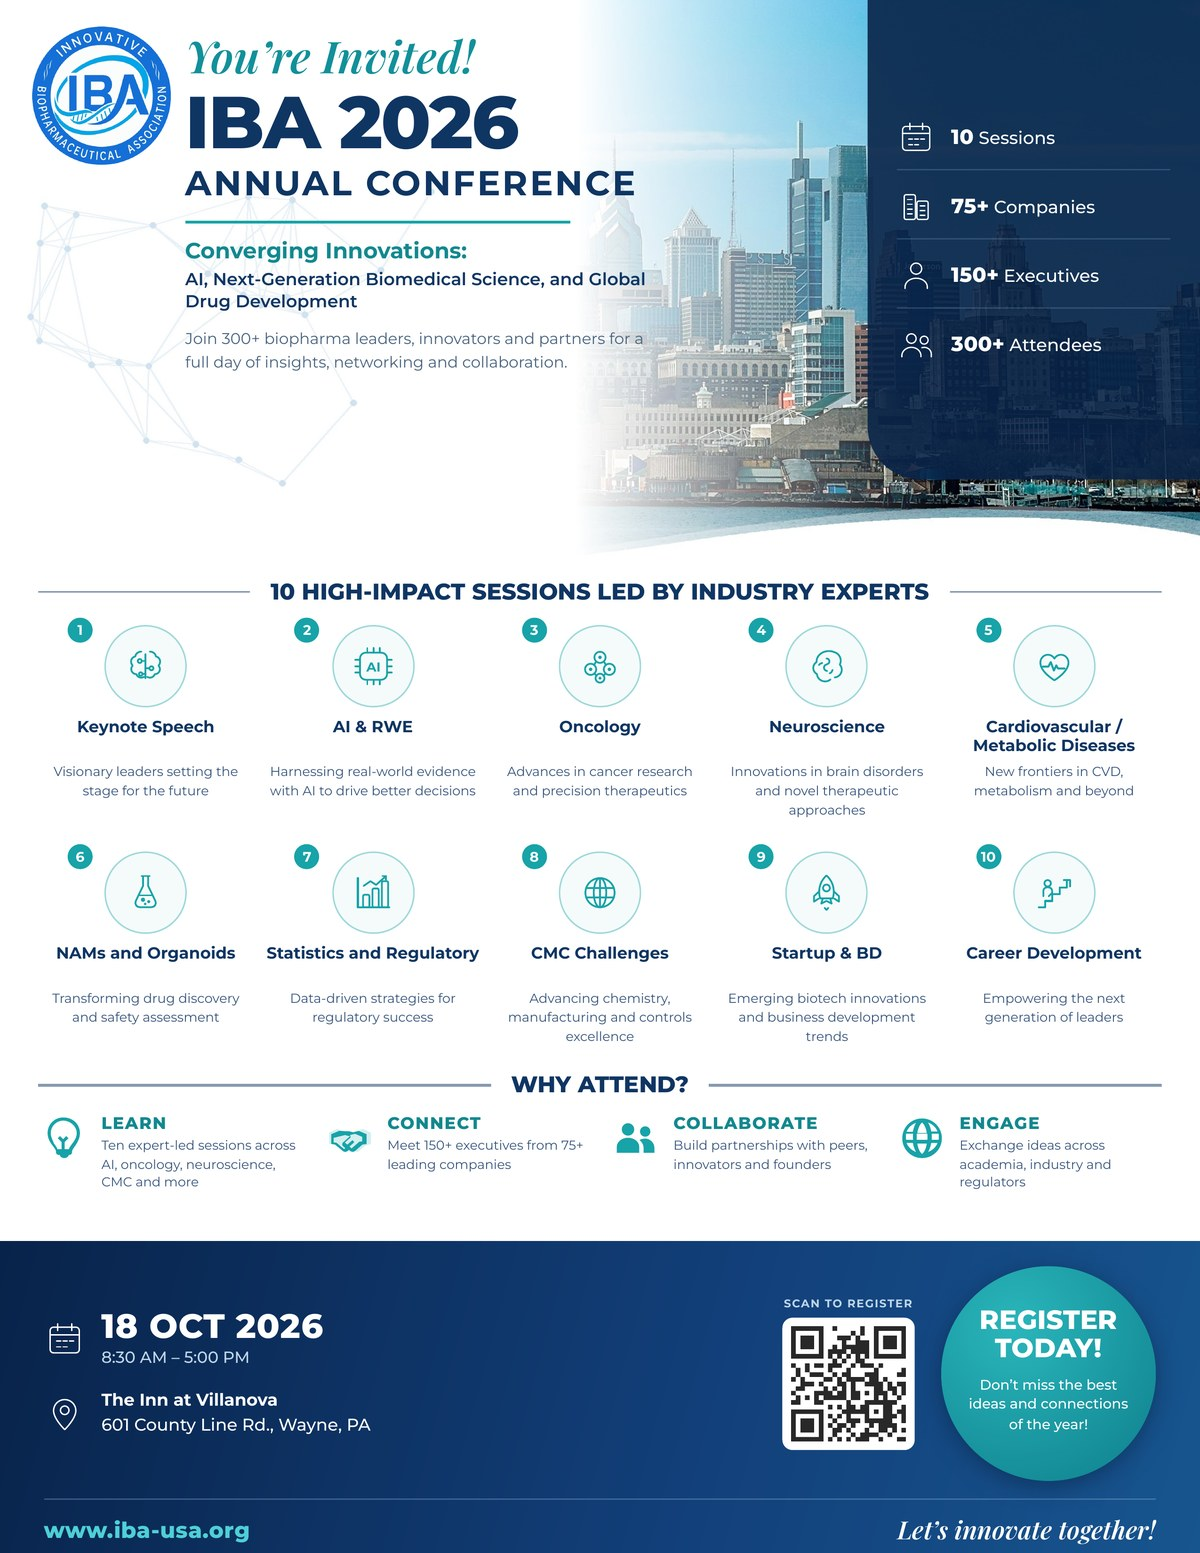
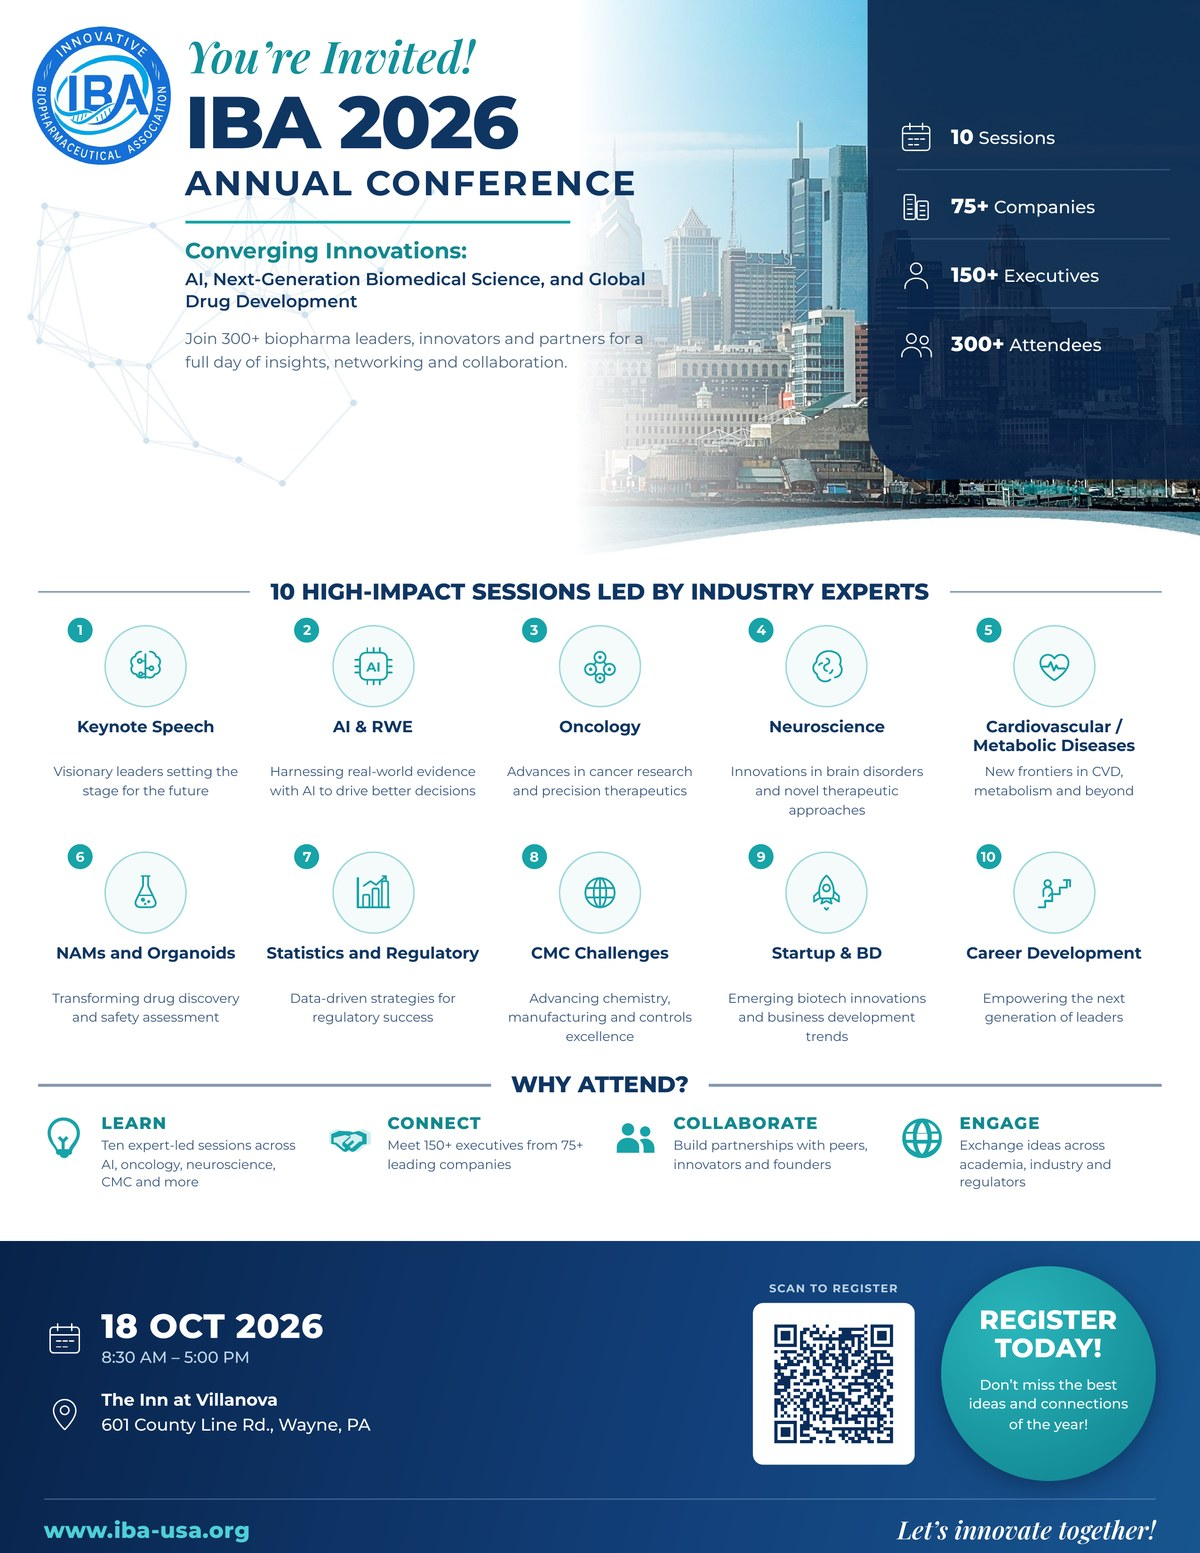
Opened registration for 2026 annual conference

Changed region(s): [[0.6167, 0.8036, 0.7708, 0.9581]]

diff --git a/event-conference-2026.html b/event-conference-2026.html
@@ -69,7 +69,7 @@
       </div>
       <div class="fact">
         <dt><span data-lang="en">Registration</span><span data-lang="zh">报名</span></dt>
-        <dd><span data-lang="en">Opening soon</span><span data-lang="zh">即将开放</span><small><span data-lang="en">Details to be announced</span><span data-lang="zh">具体方式待公布</span></small></dd>
+        <dd><span data-lang="en">Open now</span><span data-lang="zh">现已开放</span><small><a href="https://www.zeffy.com/en-US/ticketing/2026-iba-annual-conference" target="_blank" rel="noopener"><span data-lang="en">Register online</span><span data-lang="zh">在线报名</span></a></small></dd>
       </div>
     </dl>
 
@@ -83,8 +83,18 @@
         <p data-lang="zh">本届年会的主题为&ldquo;创新汇聚：人工智能、新一代生物医学科学与全球药物研发&rdquo;。全天共设十个专题环节，内容涵盖人工智能与真实世界证据、肿瘤、神经科学、心血管与代谢疾病、新方法学与类器官、统计与法规、CMC、商务拓展以及职业发展。完整安排详见宣传页。</p>
         <p data-lang="en">We expect more than 300 people to attend, including over 150 executives from more than 75 companies, together with 17 sponsoring organizations. For many of our members this is the one day in the year when they can meet counterparts from other companies, catch up on the science, and find partners for their own work.</p>
         <p data-lang="zh">我们预计将有 300 余人出席，其中包括来自 75 家以上企业的 150 余位高管，以及 17 家赞助机构。对许多会员而言，这是一年中难得的机会，可以结识其他公司的同行、了解科学的最新进展，并为自己的工作寻找合作伙伴。</p>
-        <p data-lang="en">Seats are limited. Registration will open soon, and details will be posted on this page.</p>
-        <p data-lang="zh">名额有限。报名通道即将开放，具体方式将在本页公布。</p>
+        <p data-lang="en">Registration is open. Seats are limited, so please register early.</p>
+        <p data-lang="zh">报名现已开放。名额有限，敬请及早报名。</p>
+
+        <div class="register">
+          <img class="register__qr" src="assets/img/register-qr.png" width="150" height="150"
+               alt="QR code linking to the IBA 2026 Annual Conference registration page" loading="lazy">
+          <div class="register__body">
+            <a class="btn btn--primary" href="https://www.zeffy.com/en-US/ticketing/2026-iba-annual-conference" target="_blank" rel="noopener"><span data-lang="en">Register for the conference</span><span data-lang="zh">立即报名参加年会</span></a>
+            <p class="register__note" data-lang="en">Or scan the code with your phone camera.</p>
+            <p class="register__note" data-lang="zh">也可使用手机相机扫描二维码。</p>
+          </div>
+        </div>
       </div>
 
       <figure class="split__media event-flyer" data-optional-media>

diff --git a/assets/css/styles.css b/assets/css/styles.css
@@ -610,3 +610,16 @@ a.logo-card:hover .logo-card__name { color: var(--teal-600); }
   margin-top: .8rem; font-size: .84rem; color: var(--muted); text-align: center;
 }
 .split--single { grid-template-columns: 1fr; }
+
+/* ---------- Registration card ---------- */
+.register {
+  display: flex; flex-wrap: wrap; align-items: center; gap: 1.4rem;
+  margin: 1.8rem 0 0; padding: 1.3rem 1.5rem;
+  background: var(--canvas); border: 1px solid var(--line); border-radius: var(--radius);
+}
+.register__qr {
+  width: 150px; height: 150px; flex: none;
+  border: 1px solid var(--line); border-radius: var(--radius-s); background: #fff;
+}
+.register__body { display: flex; flex-direction: column; align-items: flex-start; gap: .7rem; }
+.register__note { margin: 0; font-size: .9rem; color: var(--muted); }

diff --git a/README.md b/README.md
@@ -26,7 +26,7 @@ Ctrl+F5 on Windows) before assuming the upload failed.
 | `event-bbq-2026.html` | Detail page: 2026 BBQ & Music Festival |
 | `assets/css/styles.css` | All styling. Design tokens are at the top |
 | `assets/js/main.js` | Navigation, language toggle, event sorting, image fallbacks, lightbox |
-| `assets/img/` | Conference flyer, and sponsor logos in `sponsors/` |
+| `assets/img/` | Conference flyer, registration QR, and sponsor logos in `sponsors/` |
 | `ASSETS.md` | Where every image comes from, and which ones are still hosted elsewhere |
 | `download-assets.sh` | One-off script to pull the remaining remote images into the repo |
 
@@ -139,11 +139,11 @@ Colours, spacing and shadows are CSS custom properties in `:root` at the top of
 
 ## Known gaps
 
-- **Conference registration is an email link.** The invitation and the flyer both
-  say to register at www.iba-usa.org, which is this site, so there is nothing to
-  point at yet. When a registration form or ticketing page exists, replace the
-  `mailto:` links on `event-conference-2026.html`. The flyer's QR code resolves to
-  the site's front page for the same reason.
+- **Conference registration** runs on Zeffy. Both the button and the QR code on
+  `event-conference-2026.html` point at
+  `https://www.zeffy.com/en-US/ticketing/2026-iba-annual-conference`. The QR image
+  (`assets/img/register-qr.png`) was cropped from the flyer, so if the flyer's code
+  ever changes, re-crop it rather than leaving the two out of step.
 - **One sponsor tile has no WeChat QR code.** If a clean copy is supplied, save it
   as `assets/img/sponsors/yingxin-xue-wechat.png` and the card will display it
   automatically at 96px. No code change is needed.

diff --git a/ASSETS.md b/ASSETS.md
@@ -8,6 +8,7 @@ Two kinds of image are used on this site, and they behave differently.
 |---|---|
 | `assets/img/iba-2026-conference-flyer.jpg` | Annual Conference page, beside the description |
 | `assets/img/iba-2026-conference-flyer.pdf` | Opens when the flyer image is clicked |
+| `assets/img/register-qr.png` | Registration QR on the Annual Conference page, cropped from the flyer |
 | `assets/img/sponsors/*.png` | Sponsorship page, one per organization |
 
 The sponsor logos are trimmed of their surrounding whitespace and scaled to 200px
